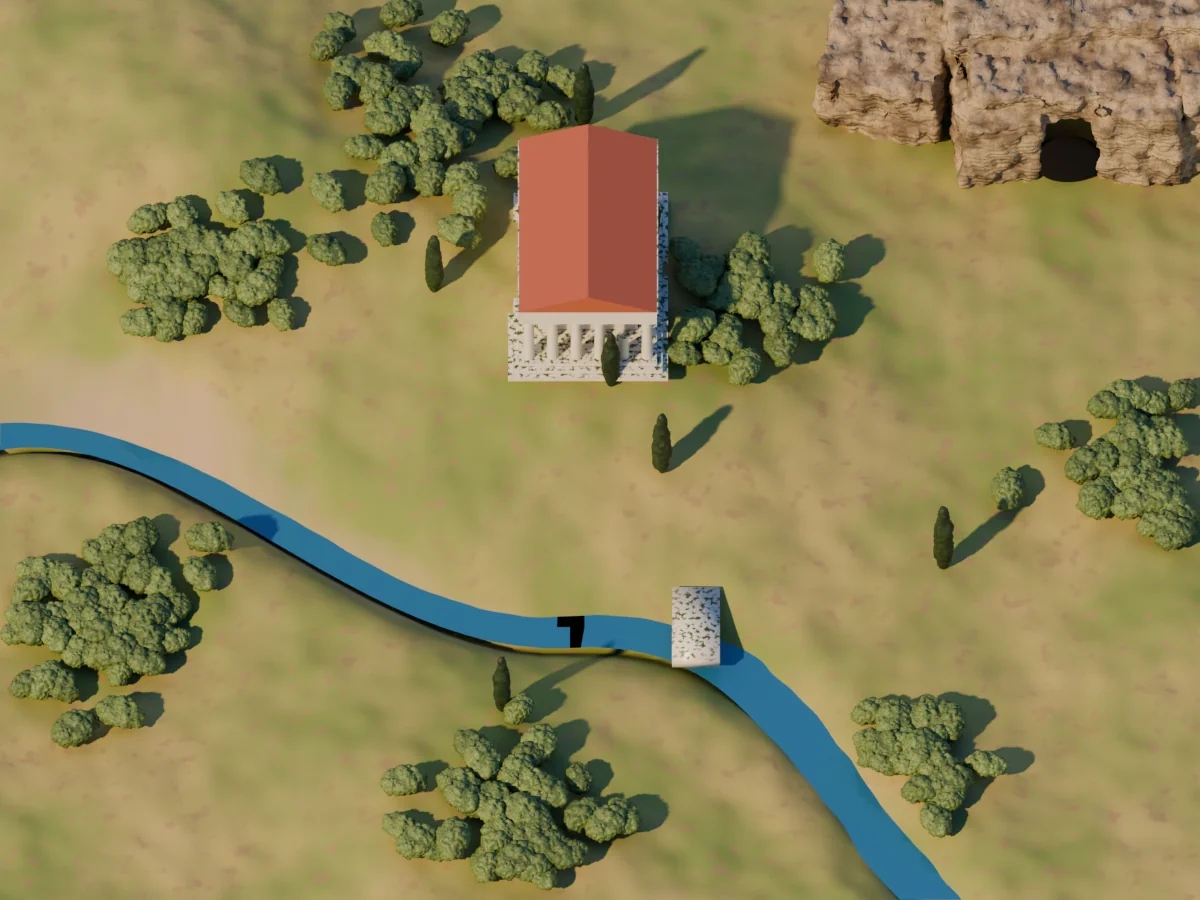
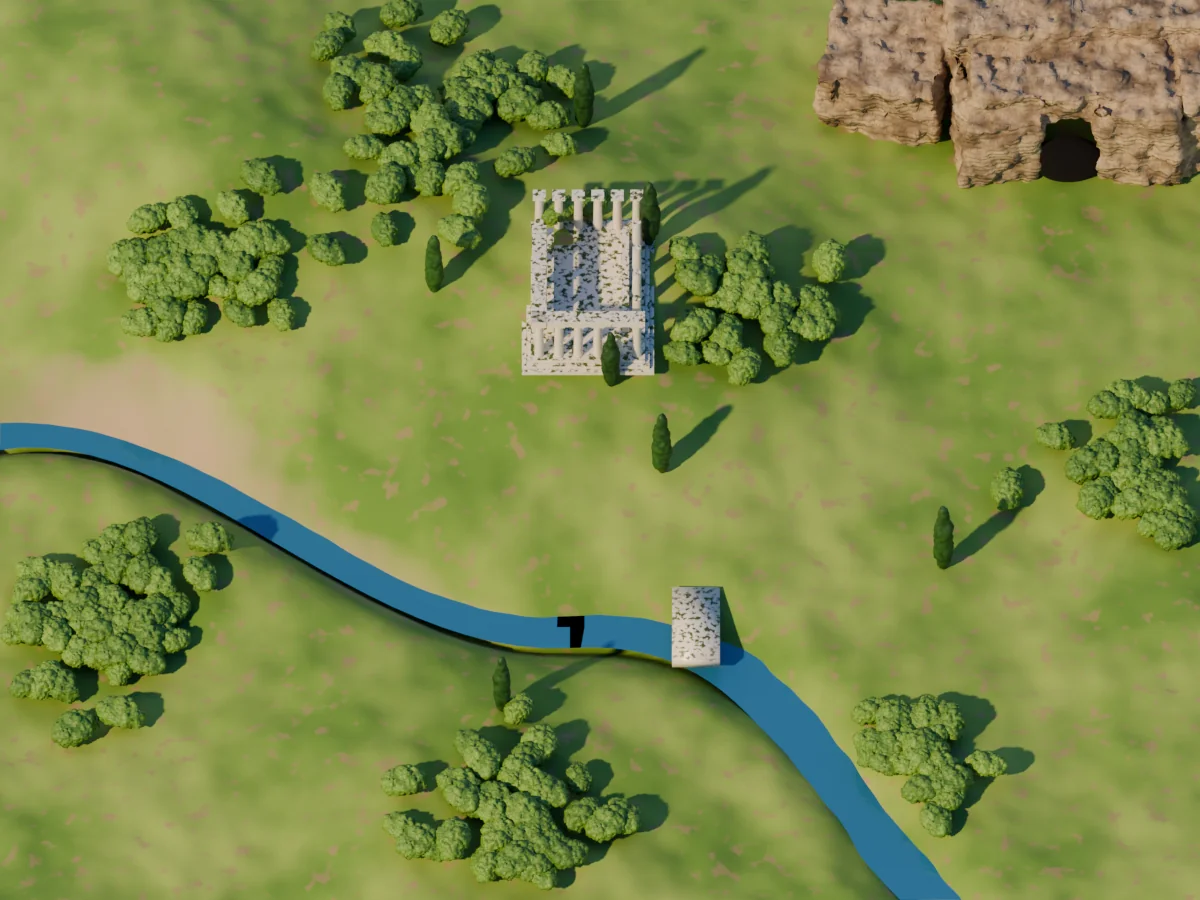
Chương 1 đồng cỏ tươi (LUSH) + công tắc đồ hoạ 2.5D ↔ 3D ở trang chủ
- nemea_valley.LUSH mặc định: render lại phông trận, bản đồ chọn màn (màu
  qua nv.pal), chụp lại chân dung và khung trang chủ. Giữ nguyên bụi Trì Trệ.
- ArtModeSetting (lib/art/art_mode.dart): 2.5D = vector bằng code, 3D =
  tài nguyên Blender; các cổng nạp ảnh Blender trả "chưa có" ở 2.5D nên hình
  tự vẽ bản vector. Lưu bằng SharedPreferences.
- rules/dohoa.md mục 8 (kết quả bước 1) và mục 9 (công tắc).

diff --git a/test/art/art_mode_test.dart b/test/art/art_mode_test.dart
@@ -1,0 +1,50 @@
+import 'package:flutter_test/flutter_test.dart';
+import 'package:shared_preferences/shared_preferences.dart';
+import 'package:solo_pushing_up/art/art_mode.dart';
+import 'package:solo_pushing_up/art/hero_art.dart';
+import 'package:solo_pushing_up/art/home_banner_art.dart';
+import 'package:solo_pushing_up/art/nemea_backdrop.dart';
+import 'package:solo_pushing_up/art/nemea_map_art.dart';
+import 'package:solo_pushing_up/art/sprite_atlas.dart';
+
+void main() {
+  TestWidgetsFlutterBinding.ensureInitialized();
+
+  setUp(() => SharedPreferences.setMockInitialValues({}));
+  tearDown(() => ArtModeSetting.notifier.value = ArtMode.blender);
+
+  test('mặc định 3D, đọc lại lựa chọn đã lưu', () async {
+    await ArtModeSetting.load();
+    expect(ArtModeSetting.mode, ArtMode.blender);
+    await ArtModeSetting.set(ArtMode.vector);
+    ArtModeSetting.notifier.value = ArtMode.blender;
+    await ArtModeSetting.load();
+    expect(ArtModeSetting.mode, ArtMode.vector);
+  });
+
+  testWidgets('2.5D giấu mọi tài nguyên Blender đã nạp', (tester) async {
+    const look = HeroLook();
+    await tester.runAsync(() async {
+      await NemeaBackdrop.load();
+      await NemeaMapImage.load();
+      await SpriteAtlas.load('nemea_lion');
+      await HomeBannerArt.load(look, cloak: false, freed: false);
+    });
+    bool anyBlender() =>
+        NemeaBackdrop.ready ||
+        NemeaMapImage.image != null ||
+        SpriteAtlas.get('nemea_lion') != null ||
+        HomeBannerArt.ready(look, cloak: false, freed: false);
+
+    expect(anyBlender(), isTrue);
+    ArtModeSetting.notifier.value = ArtMode.vector;
+    expect(NemeaBackdrop.ready, isFalse);
+    expect(NemeaMapImage.image, isNull);
+    expect(SpriteAtlas.get('nemea_lion'), isNull);
+    expect(HomeBannerArt.ready(look, cloak: false, freed: false), isFalse);
+    ArtModeSetting.notifier.value = ArtMode.blender;
+    expect(anyBlender(), isTrue);
+    NemeaBackdrop.evict();
+    SpriteAtlas.evict('nemea_lion');
+  });
+}

diff --git a/lib/ui/home_screen.dart b/lib/ui/home_screen.dart
@@ -1,5 +1,6 @@
 import 'package:flutter/material.dart';
 
+import '../art/art_mode.dart';
 import '../art/bosses/boss_registry.dart';
 import '../art/bosses/nemea_boss.dart' show lionScale, lionX;
 import '../art/hero_art.dart';
@@ -232,6 +233,33 @@ class _HomeScreenState extends State<HomeScreen> {
               _mode == PushupMode.knee
                   ? 'Chống gối · sát thương và XP ×0,7'
                   : 'Push-up chuẩn · sát thương và XP đầy đủ',
+              style: theme.textTheme.bodySmall,
+            ),
+            const GreekHeading('Đồ hoạ'),
+            SegmentedButton<ArtMode>(
+              segments: const [
+                ButtonSegment(
+                  value: ArtMode.vector,
+                  label: Text('2.5D'),
+                  icon: Icon(Icons.brush),
+                ),
+                ButtonSegment(
+                  value: ArtMode.blender,
+                  label: Text('3D'),
+                  icon: Icon(Icons.view_in_ar),
+                ),
+              ],
+              selected: {ArtModeSetting.mode},
+              onSelectionChanged: (s) async {
+                await ArtModeSetting.set(s.single);
+                if (mounted) setState(() {});
+              },
+            ),
+            const SizedBox(height: 4),
+            Text(
+              ArtModeSetting.blender
+                  ? 'Dựng 3D bằng Blender · ảnh nét, nặng hơn'
+                  : 'Vẽ vector · nhẹ, phông nhiều lớp parallax',
               style: theme.textTheme.bodySmall,
             ),
             const GreekHeading('Hành trình'),

diff --git a/lib/art/art_mode.dart b/lib/art/art_mode.dart
@@ -1,0 +1,44 @@
+import 'package:flutter/foundation.dart';
+import 'package:shared_preferences/shared_preferences.dart';
+
+/// Kiểu đồ hoạ người chơi chọn ở trang chủ.
+enum ArtMode {
+  /// Vẽ vector bằng code (lib/art/), phông nhiều lớp parallax.
+  vector('2.5D'),
+
+  /// Sprite, phông và ảnh chụp sẵn dựng bằng Blender (assets/).
+  blender('3D');
+
+  const ArtMode(this.label);
+
+  final String label;
+}
+
+/// Công tắc 2.5D ↔ 3D. Các chỗ nạp tài nguyên Blender (SpriteAtlas,
+/// NemeaBackdrop, NemeaMapImage, HomeBannerArt, BossPortrait) coi như CHƯA
+/// có ảnh khi đang ở [ArtMode.vector], nên tự rơi về bản vector như lúc
+/// thiếu tài nguyên — không cần nhánh riêng ở từng hình.
+abstract final class ArtModeSetting {
+  static const _key = 'art_mode_v1';
+
+  static final notifier = ValueNotifier<ArtMode>(ArtMode.blender);
+
+  static ArtMode get mode => notifier.value;
+
+  static bool get blender => notifier.value == ArtMode.blender;
+
+  static Future<void> load() async {
+    final prefs = await SharedPreferences.getInstance();
+    final name = prefs.getString(_key);
+    notifier.value = ArtMode.values.firstWhere(
+      (m) => m.name == name,
+      orElse: () => ArtMode.blender,
+    );
+  }
+
+  static Future<void> set(ArtMode mode) async {
+    notifier.value = mode;
+    final prefs = await SharedPreferences.getInstance();
+    await prefs.setString(_key, mode.name);
+  }
+}

diff --git a/lib/art/nemea_map_art.dart b/lib/art/nemea_map_art.dart
@@ -4,6 +4,7 @@ import 'dart:ui';
 
 import 'package:flutter/services.dart' show rootBundle;
 
+import 'art_mode.dart';
 import 'vector_style.dart';
 
 /// Kích thước bản đồ Thung lũng Nemea (đơn vị vẽ).
@@ -83,14 +84,17 @@ Path _poly(List<Offset> pts) => Path()..addPolygon(pts, true);
 /// Bản đồ Thung lũng Nemea dựng bằng Blender (tool/blender/nemea_map.py),
 /// nạp khi mở màn chọn màn; chưa có thì vẽ bản vector.
 abstract final class NemeaMapImage {
-  static ui.Image? image;
+  static ui.Image? _image;
   static Future<void>? _loading;
+
+  /// Ảnh đã nạp; chế độ 2.5D ([ArtMode.vector]) luôn null.
+  static ui.Image? get image => ArtModeSetting.blender ? _image : null;
 
   static Future<void> load() => _loading ??= () async {
     try {
       final data = await rootBundle.load('assets/backdrops/nemea_map.webp');
       final codec = await ui.instantiateImageCodec(data.buffer.asUint8List());
-      image = (await codec.getNextFrame()).image;
+      _image = (await codec.getNextFrame()).image;
     } catch (_) {
       // Chưa render: giữ bản vector.
     }

diff --git a/lib/art/sprite_atlas.dart b/lib/art/sprite_atlas.dart
@@ -4,6 +4,8 @@ import 'dart:ui';
 
 import 'package:flutter/services.dart' show rootBundle;
 
+import 'art_mode.dart';
+
 /// Một khung trong atlas: vùng ảnh trên trang [page] và vị trí góc trên trái
 /// so với điểm neo, tính bằng đơn vị sân khấu.
 class SpriteFrame {
@@ -35,7 +37,9 @@ class SpriteAtlas {
 
   /// Atlas đã nạp ([load]), hoặc null — không tự nạp: chỉ trận đấu nạp
   /// (BossArt.preload), chân dung ở các màn hình khác vẽ bản vector.
-  static SpriteAtlas? get(String name) => _cache[name];
+  /// Chế độ 2.5D ([ArtMode.vector]) luôn trả null.
+  static SpriteAtlas? get(String name) =>
+      ArtModeSetting.blender ? _cache[name] : null;
 
   static Future<SpriteAtlas?> load(String name) {
     final pending = _loading[name];

diff --git a/lib/ui/boss_portrait.dart b/lib/ui/boss_portrait.dart
@@ -3,6 +3,7 @@ import 'dart:ui' as ui;
 
 import 'package:flutter/material.dart';
 
+import '../art/art_mode.dart';
 import '../art/battle_stage.dart';
 import '../art/bosses/boss_registry.dart';
 import '../game/battle.dart';
@@ -28,7 +29,10 @@ class BossPortrait extends StatelessWidget {
   @override
   Widget build(BuildContext context) {
     final id = enemy.id;
-    final art = baked.contains(id) ? null : bossArtFor(enemy);
+    // Chế độ 2.5D: kẻ thù nào cũng vẽ bản vector.
+    final art = baked.contains(id) && ArtModeSetting.blender
+        ? null
+        : bossArtFor(enemy);
     return SizedBox.square(
       dimension: size,
       child: ClipOval(

diff --git a/lib/art/nemea_backdrop.dart b/lib/art/nemea_backdrop.dart
@@ -3,6 +3,7 @@ import 'dart:ui';
 
 import 'package:flutter/services.dart' show rootBundle;
 
+import 'art_mode.dart';
 import 'nemea_scene.dart';
 
 /// Phông Thung lũng Nemea dựng bằng Blender (tool/blender/nemea_valley.py):
@@ -28,7 +29,9 @@ abstract final class NemeaBackdrop {
 
   static const _names = ['sky', 'far', 'mid', 'near', 'fg'];
 
-  static bool get ready => _images.length == _names.length;
+  /// Chế độ 2.5D ([ArtMode.vector]) luôn false → sân khấu vẽ bản vector.
+  static bool get ready =>
+      ArtModeSetting.blender && _images.length == _names.length;
 
   static Future<void> load() => _loading ??= _load(_generation);
 

diff --git a/lib/art/home_banner_art.dart b/lib/art/home_banner_art.dart
@@ -3,6 +3,7 @@ import 'dart:ui';
 
 import 'package:flutter/services.dart' show rootBundle;
 
+import 'art_mode.dart';
 import 'hero_art.dart';
 import 'nemea_scene.dart';
 import 'vector_style.dart';
@@ -71,7 +72,9 @@ abstract final class HomeBannerArt {
     HeroLook look, {
     required bool cloak,
     required bool freed,
-  }) => _assets(look, cloak: cloak, freed: freed).every(_images.containsKey);
+  }) =>
+      ArtModeSetting.blender &&
+      _assets(look, cloak: cloak, freed: freed).every(_images.containsKey);
 
   static final _paint = Paint()..filterQuality = FilterQuality.medium;
 

diff --git a/lib/main.dart b/lib/main.dart
@@ -1,10 +1,12 @@
 import 'package:flutter/material.dart';
 import 'package:flutter/services.dart';
 
+import 'art/art_mode.dart';
 import 'ui/home_screen.dart';
 
-void main() {
+Future<void> main() async {
   WidgetsFlutterBinding.ensureInitialized();
+  await ArtModeSetting.load();
   // Cho xoay ngang: phòng nhỏ đôi khi chỉ đặt máy nằm ngang được
   // (review Pushup RPG chê ép xoay camera).
   SystemChrome.setPreferredOrientations([

diff --git a/tool/blender/nemea_valley.py b/tool/blender/nemea_valley.py
@@ -73,6 +73,28 @@ def _mat(name):
 
 HAZE = "#B4C2D2"
 
+# Bảng màu "đồng cỏ tươi" (thử phong cách painted, rules/dohoa.md mục 8):
+# Mặc định dùng đồng cỏ tươi (14/10); style_test.py đặt LUSH = False cho bản
+# "hiện tại" để so với bản đất khô cũ.
+LUSH = True
+DRY_PALETTE = {
+    "ground": ("#B4966A", "#8C7050"), "ground_patch": "#7E7A3C", "pebble": "#D8CDB6",
+    "grass": [(0.0, "#C8B870"), (0.5, "#9A9A50"), (1.0, "#5E6A34")],
+    "olive_far": ("#7E9256", "#4A5A36"), "cypress": ("#3E5230", "#22301C"),
+    "map_grass": ("#8E9A52", "#B8A866"), "map_dirt": "#A88C62",
+}
+LUSH_PALETTE = {
+    "ground": ("#7A9A48", "#567A34"), "ground_patch": "#A89660", "pebble": "#C9C29A",
+    "path": "#A48C68",
+    "grass": [(0.0, "#D6E07A"), (0.5, "#8CB848"), (1.0, "#4E8030")],
+    "olive_far": ("#8AB04E", "#46702E"), "cypress": ("#3E6A30", "#1E3E1C"),
+    "map_grass": ("#6E9440", "#9CB458"), "map_dirt": "#A48C68",
+}
+
+
+def pal(key):
+    return (LUSH_PALETTE if LUSH else DRY_PALETTE)[key]
+
 
 def finish(mat, nt, bsdf, out, haze=1.0):
     """Phối cảnh không khí: càng xa càng hoà vào màu sương trời (theo khoảng
@@ -123,7 +145,7 @@ def ground_material(name="Dirt", haze=1.0):
     """Đất khô sáng của Argolis: cát nâu vàng, sỏi vôi lốm đốm, vệt cỏ úa."""
     mat, nt, bsdf, out = _mat(name)
     N, L = nt.nodes, nt.links.new
-    tc, _ = noise_color(nt, bsdf, "#B4966A", "#8C7050", 1.4, lo=0.4, hi=0.62)
+    tc, _ = noise_color(nt, bsdf, *pal("ground"), 1.4, lo=0.4, hi=0.62)
     vor = N.new("ShaderNodeTexVoronoi")
     vor.inputs["Scale"].default_value = 26
     L(tc.outputs["Object"], vor.inputs["Vector"])
@@ -144,13 +166,30 @@ def ground_material(name="Dirt", haze=1.0):
     g.data_type = "RGBA"
     L(gm.outputs[0], g.inputs["Factor"])
     L(base, g.inputs[6])
-    g.inputs[7].default_value = srgb("#7E7A3C")
+    g.inputs[7].default_value = srgb(pal("ground_patch"))
     p = N.new("ShaderNodeMix")
     p.data_type = "RGBA"
     L(peb.outputs[0], p.inputs["Factor"])
     L(g.outputs[2], p.inputs[6])
-    p.inputs[7].default_value = srgb("#D8CDB6")
-    L(p.outputs[2], bsdf.inputs["Base Color"])
+    p.inputs[7].default_value = srgb(pal("pebble"))
+    color = p.outputs[2]
+    if LUSH:
+        # Lối đất trụi theo thuộc tính `scar` (lối đi trên dải hành động);
+        # mặt không có thuộc tính này trả 0 → giữ cỏ.
+        sc = N.new("ShaderNodeAttribute")
+        sc.attribute_name = "scar"
+        sm = N.new("ShaderNodeMapRange")
+        sm.interpolation_type = "SMOOTHSTEP"
+        sm.inputs["From Min"].default_value = 0.7
+        sm.inputs["From Max"].default_value = 0.97
+        L(sc.outputs["Fac"], sm.inputs["Value"])
+        d = N.new("ShaderNodeMix")
+        d.data_type = "RGBA"
+        L(sm.outputs[0], d.inputs["Factor"])
+        L(color, d.inputs[6])
+        d.inputs[7].default_value = srgb(pal("path"))
+        color = d.outputs[2]
+    L(color, bsdf.inputs["Base Color"])
     bump = N.new("ShaderNodeBump")
     bump.inputs["Strength"].default_value = 0.5
     bump.inputs["Distance"].default_value = 0.02
@@ -720,12 +759,12 @@ def build():
     bark = bark_material()
     olive = foliage_material("Olive")
     olive_inner = flat_material("OliveInner", "#2E3A24", rough=1)
-    olive_far = foliage_material("OliveFar", lit="#7E9256", dark="#4A5A36", translucent=0.1)
-    cypress_mat = foliage_material("Cypress", lit="#3E5230", dark="#22301C", translucent=0.05)
+    olive_far = foliage_material("OliveFar", *pal("olive_far"), translucent=0.1)
+    cypress_mat = foliage_material("Cypress", *pal("cypress"), translucent=0.05)
     marble = marble_material("TempleMarble", base="#EDE4D0", vein="#C2B8A6", glow_strength=0.0)
     roof_mat = flat_material("RoofTile", "#B4644A", rough=0.8)
     cave_dark = flat_material("CaveDark", "#0C0806", rough=1, haze=0)
-    grass_mat = fur_material("Grass", [(0.0, "#C8B870"), (0.5, "#9A9A50"), (1.0, "#5E6A34")])
+    grass_mat = fur_material("Grass", pal("grass"))
     leaf = leaf_mesh()
 
     # ---- núi xa: dãy núi đá vôi Argolis, xanh mờ trong sương.

diff --git a/tool/blender/nemea_map.py b/tool/blender/nemea_map.py
@@ -128,7 +128,7 @@ def grass_material():
     """Đồng cỏ cuối hè Argolis: xanh ô liu xen vàng rơm, lốm đốm đất."""
     mat, nt, bsdf, out = nv._mat("MapGrass")
     N, L = nt.nodes, nt.links.new
-    tc, tex = nv.noise_color(nt, bsdf, "#8E9A52", "#B8A866", 0.18, detail=6, lo=0.4, hi=0.62)
+    tc, tex = nv.noise_color(nt, bsdf, *nv.pal("map_grass"), 0.18, detail=6, lo=0.4, hi=0.62)
     dirt = N.new("ShaderNodeTexNoise")
     dirt.inputs["Scale"].default_value = 1.6
     L(tc.outputs["Object"], dirt.inputs["Vector"])
@@ -141,7 +141,7 @@ def grass_material():
     mix.data_type = "RGBA"
     L(dm.outputs[0], mix.inputs["Factor"])
     L(bsdf.inputs["Base Color"].links[0].from_socket, mix.inputs[6])
-    mix.inputs[7].default_value = srgb("#A88C62")
+    mix.inputs[7].default_value = srgb(nv.pal("map_dirt"))
     # Đá lộ ra ở sườn dốc.
     geo = N.new("ShaderNodeNewGeometry")
     sep = N.new("ShaderNodeSeparateXYZ")
@@ -186,8 +186,8 @@ def build():
     grass = grass_material()
     rock = nv.rock_material("MapRock", haze=0)
     bark = nv.bark_material("MapBark", haze=0)
-    olive = nv.foliage_material("MapOlive", lit="#8A9E5A", dark="#4E6236", haze=0, translucent=0.1)
-    cyp = nv.foliage_material("MapCypress", lit="#3E5230", dark="#22301C", haze=0, translucent=0.05)
+    olive = nv.foliage_material("MapOlive", *nv.pal("olive_far"), haze=0, translucent=0.1)
+    cyp = nv.foliage_material("MapCypress", *nv.pal("cypress"), haze=0, translucent=0.05)
     marble = marble_material("MapMarble", base="#EDE4D0", vein="#C2B8A6", glow_strength=0.0)
     roof = nv.flat_material("MapRoof", "#B4644A", rough=0.8, haze=0)
     dark = nv.flat_material("MapCave", "#0C0806", rough=1, haze=0)

diff --git a/tool/blender/style_test.py b/tool/blender/style_test.py
@@ -42,6 +42,7 @@ def finish(scene):
 
 def backdrop():
     import nemea_valley as nv
+    nv.LUSH = PAINTED  # bảng màu đồng cỏ tươi thay đất khô
     scene = begin(64)
     nv.sky_world(scene)
     nv.build()
